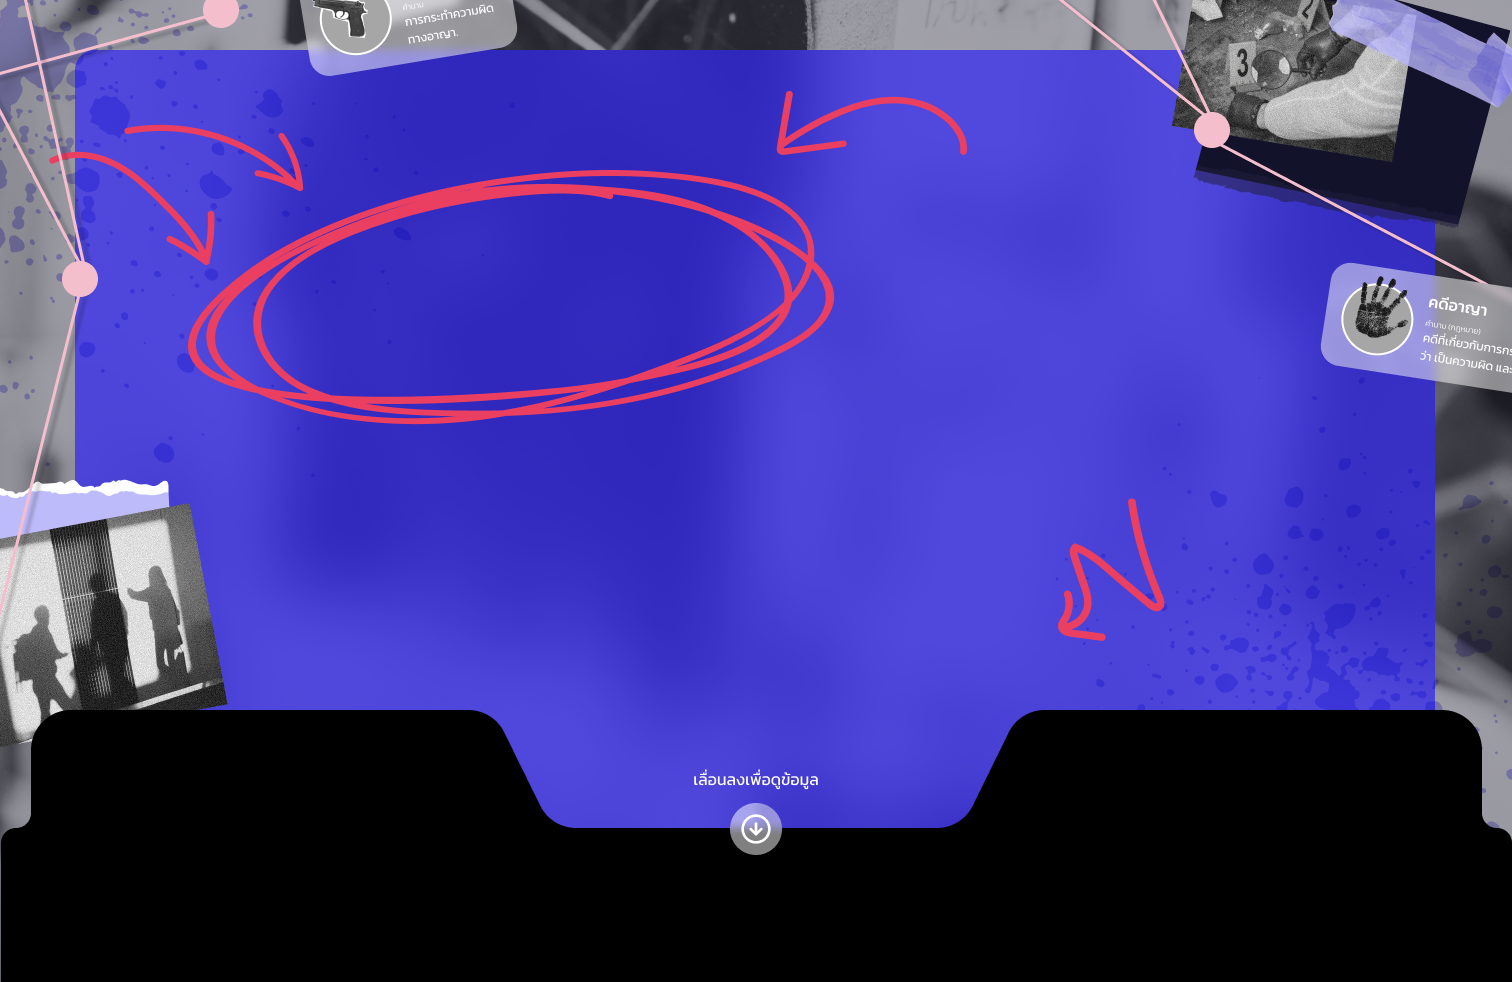
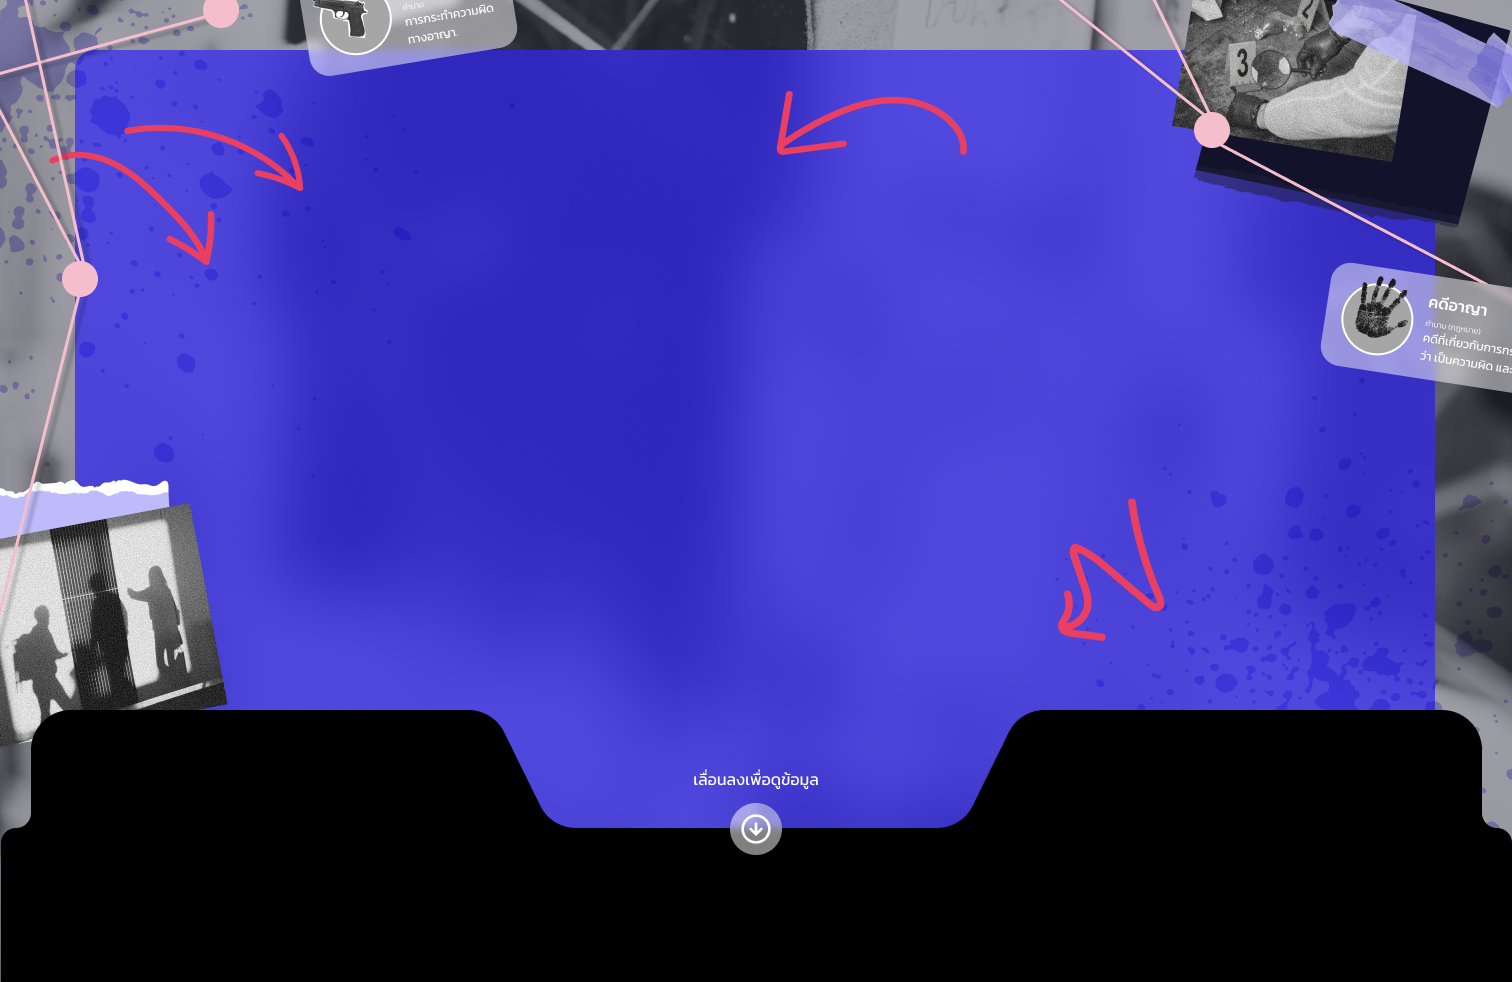
Put highlight circle over text + add case records section

Changed region(s): [[0.1243, 0.1527, 0.5595, 0.4582]]

diff --git a/index.html b/index.html
@@ -42,27 +42,23 @@
     <a href="#section8" class="block w-3 h-3 rounded-full bg-gray-400 hover:bg-blue-500 transition"></a>
     <a href="#section9" class="block w-3 h-3 rounded-full bg-gray-400 hover:bg-blue-500 transition"></a>
     <a href="#section10" class="block w-3 h-3 rounded-full bg-gray-400 hover:bg-blue-500 transition"></a>
+    <a href="#section11" class="block w-3 h-3 rounded-full bg-gray-400 hover:bg-blue-500 transition"></a>
   </nav>
 
   <div style="scroll-snap-type: y mandatory; overflow-y: scroll; height: 100vh;">
     <section id="section1" class="section h-screen flex items-center justify-center bg-black text-white text-4xl font-bold heading">
-      <!-- <img src="heading.png" alt="Background" class="w-full h-full object-cover">
-      <div class="absolute inset-0 flex items-center justify-center">
-        <h1 class="text-white text-4xl font-bold bg-black bg-opacity-50 p-4 rounded">
-          ถอดรหัสวิกฤติคดีอาชญากรรมไทย<br/>
-          เมื่อความยุติธรรมที่ล่าช้า คือความอยุติธรรม
-        </h1>
-      </div>
-      <img src="highlight.png"
-        alt="Decorative image"
-        class="absolute h-auto left-[35%] w-[13%]"
-      /> -->
-      <!-- <img src="landing.png" alt="" class="w-full object-cover"> -->
-      <div class="flex items-center justify-center" style="flex-direction: column; margin-top: -20px;">
-        <div style="font-family: 'ChakraPetch-Bold'; font-size: 135px;">ถอดรหัสวิกฤต</div>
-        <div style="font-family: 'ChakraPetch-Bold'; font-size: 96px; margin-top: 100px;">คดีอาชญากรรมไทย</div>
-        <div style="font-family: 'Kart-Satapat'; font-size: 64px; transform: rotate(-6.4deg); margin-top: 100px;">เมื่อ<span style="color: #FEEF38">ความยุติธรรม</span>ที่ล่าช้า</div>
-        <div style="font-family: 'Kart-Satapat'; font-size: 64px; transform: rotate(-6.4deg); margin-top: 30px;">คือ<span style="color: #FEEF38">ความอยุติธรรม</span></div>
+      <div class="relative">
+        <div class="flex items-center justify-center" style="flex-direction: column; margin-top: -20px;">
+          <div class="text-base" style="font-family: 'ChakraPetch-Bold'; font-size: 135px;">ถอดรหัสวิกฤต</div>
+          <div style="font-family: 'ChakraPetch-Bold'; font-size: 96px; margin-top: 100px;">คดีอาชญากรรมไทย</div>
+          <div style="font-family: 'Kart-Satapat'; font-size: 64px; transform: rotate(-6.4deg); margin-top: 100px;">เมื่อ<span style="color: #FEEF38">ความยุติธรรม</span>ที่ล่าช้า</div>
+          <div style="font-family: 'Kart-Satapat'; font-size: 64px; transform: rotate(-6.4deg); margin-top: 30px;">คือ<span style="color: #FEEF38">ความอยุติธรรม</span></div>
+        </div>
+        <img src="highlight-circle.png"
+          class="absolute left-0 object-cover z-20 w-100%"
+          style="top: -4em; left: -3em;"
+          alt=""
+        />
       </div>
     </section>
 
@@ -100,6 +96,10 @@
 
     <section id="section10" class="section h-100 flex items-center justify-center bg-black text-white text-4xl font-bold">
       <img src="investigation-process.png" alt="" class="w-full h-full object-cover">
+    </section>
+
+    <section id="section11" class="section h-100 items-center justify-center bg-black text-white text-4xl font-bold">
+      <img src="case-records.png" alt="" class="w-full h-full object-cover">
     </section>
   </div>
 
